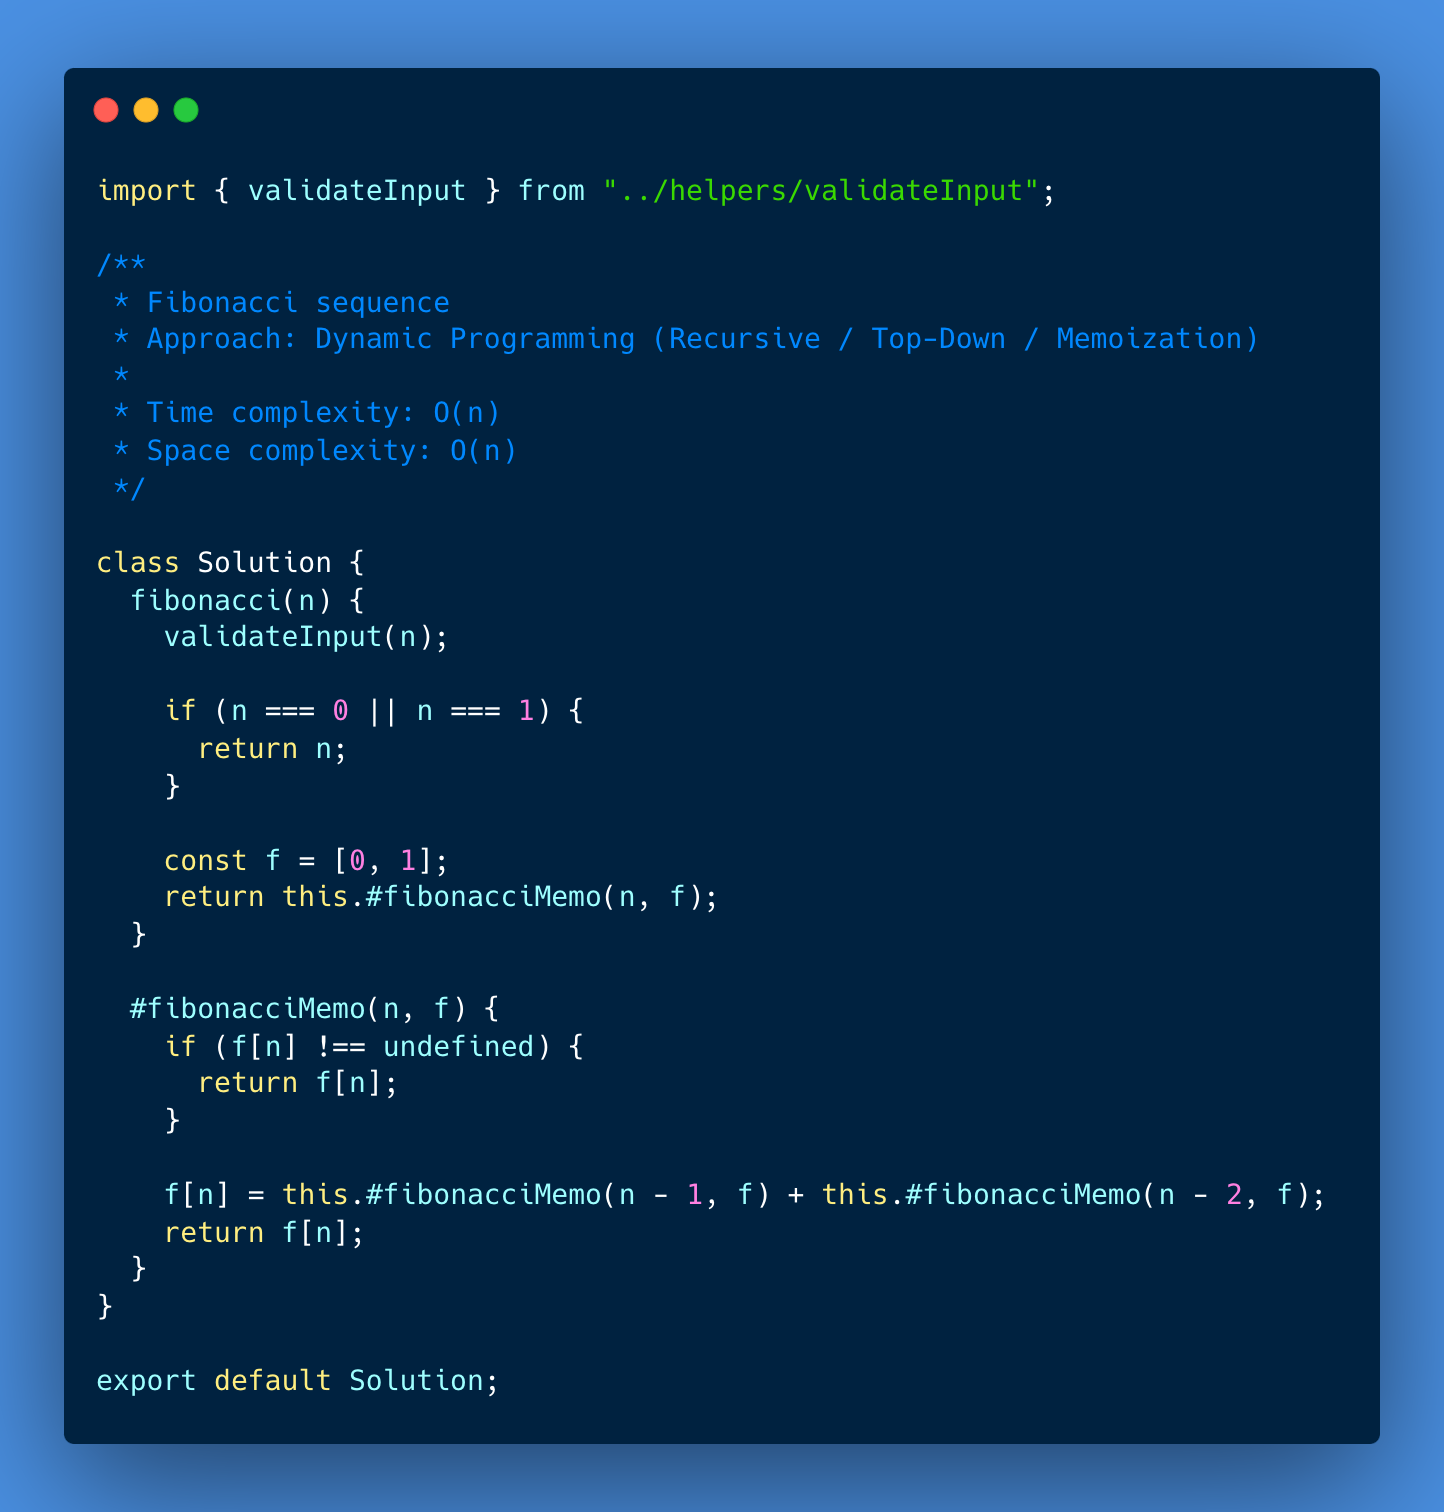
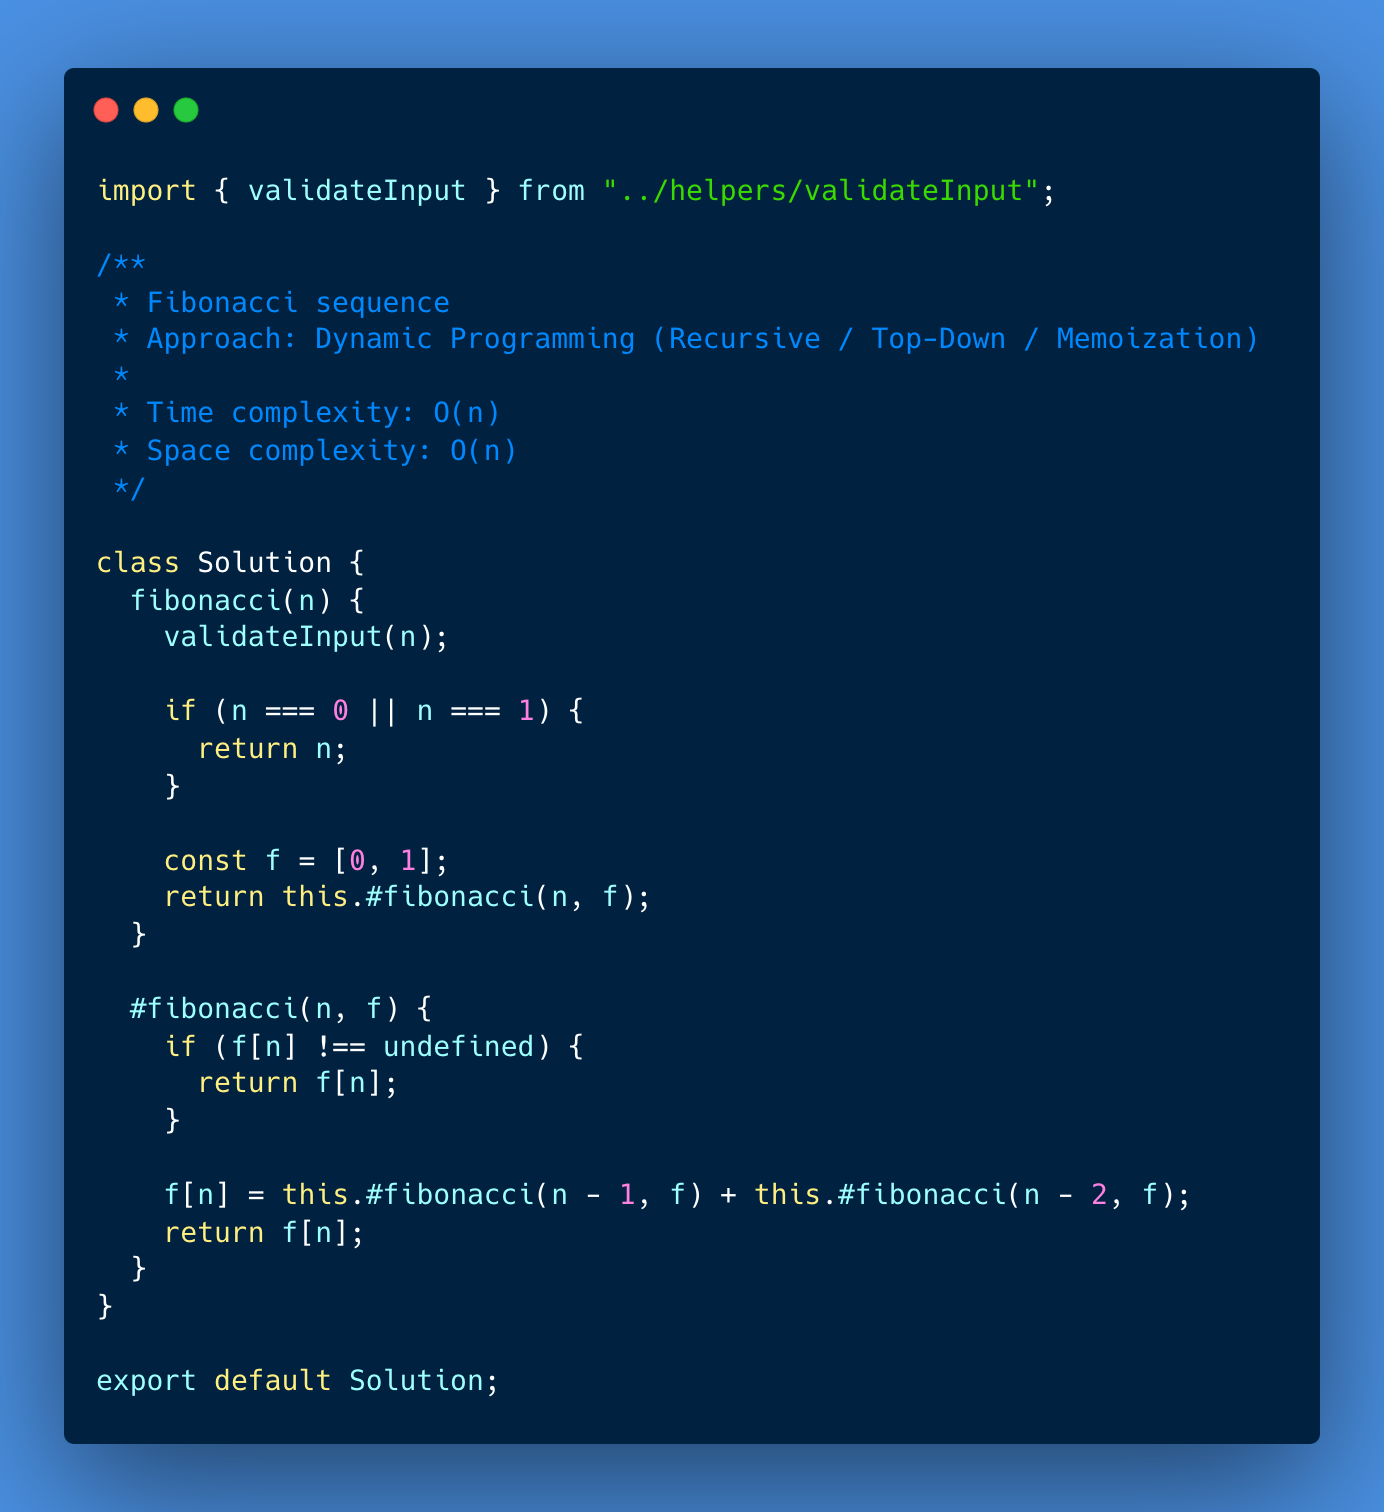
fibonnaci updates

diff --git a/006-fibonacci/002-solution/Solution.js b/006-fibonacci/002-solution/Solution.js
@@ -17,15 +17,15 @@ class Solution {
     }
 
     const f = [0, 1];
-    return this.#fibonacciMemo(n, f);
+    return this.#fibonacci(n, f);
   }
 
-  #fibonacciMemo(n, f) {
+  #fibonacci(n, f) {
     if (f[n] !== undefined) {
       return f[n];
     }
 
-    f[n] = this.#fibonacciMemo(n - 1, f) + this.#fibonacciMemo(n - 2, f);
+    f[n] = this.#fibonacci(n - 1, f) + this.#fibonacci(n - 2, f);
     return f[n];
   }
 }
